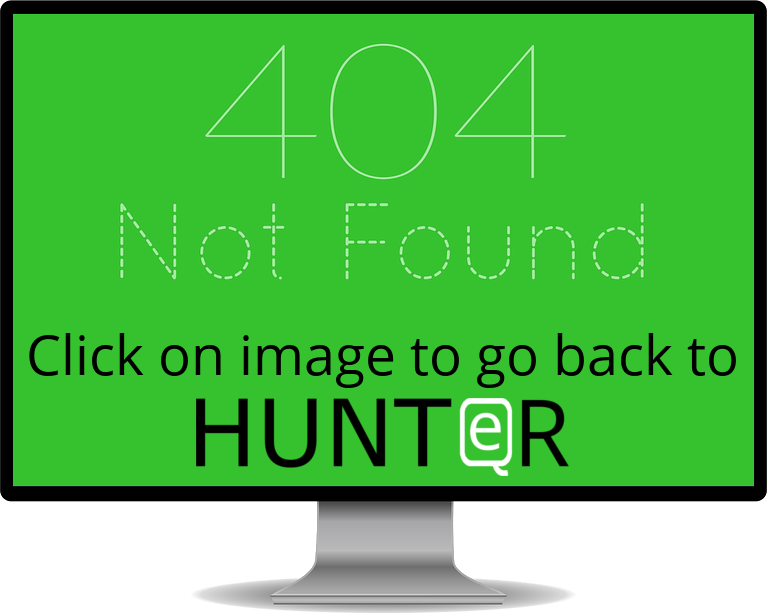
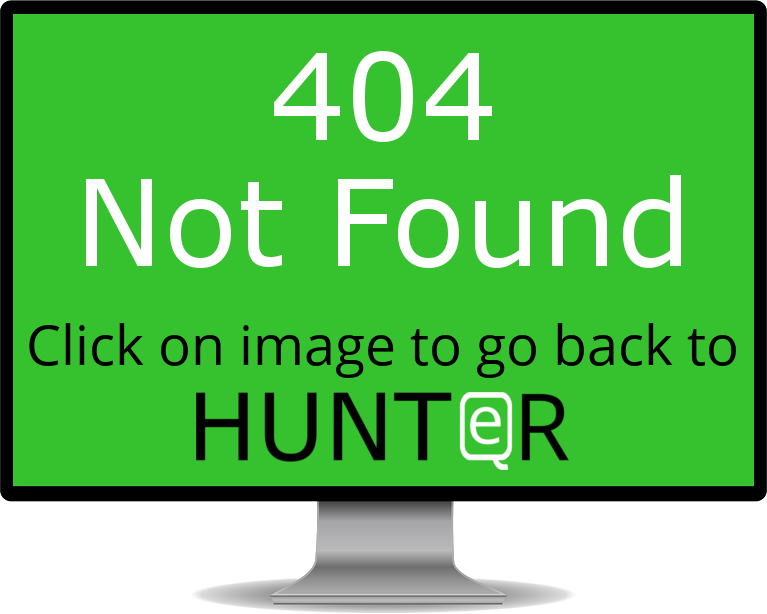
Change of device check and update of images

diff --git a/frontend/src/subSites/NotFound.js b/frontend/src/subSites/NotFound.js
@@ -1,7 +1,7 @@
 import React from 'react';
 import {NavLink} from 'react-router-dom';
 
-import {Image, Grid, Message} from 'semantic-ui-react';
+import {Grid, Image} from 'semantic-ui-react';
 
 import ErrorDesktop from '../images/404Desktop.png';
 import ErrorMobile from '../images/404Mobile.png';
@@ -9,13 +9,12 @@ import ErrorMobile from '../images/404Mobile.png';
 
 export default function () {
     return (
-        <Grid centered>
-            <Grid.Row>
-                <NavLink to="/">
-                    <Image
-                        src={/Android|webOS|iPhone|iPad|iPod|BlackBerry|IEMobile|Opera Mini/i.test(navigator.userAgent) ? ErrorMobile : ErrorDesktop}/>
-                </NavLink>
-            </Grid.Row>
+        <Grid centered padded>
+            <NavLink to="/">
+                <Grid.Row>
+                    <Image src={window.innerWidth <= 768 ? ErrorMobile : ErrorDesktop}/>
+                </Grid.Row>
+            </NavLink>
         </Grid>
     )
 }
